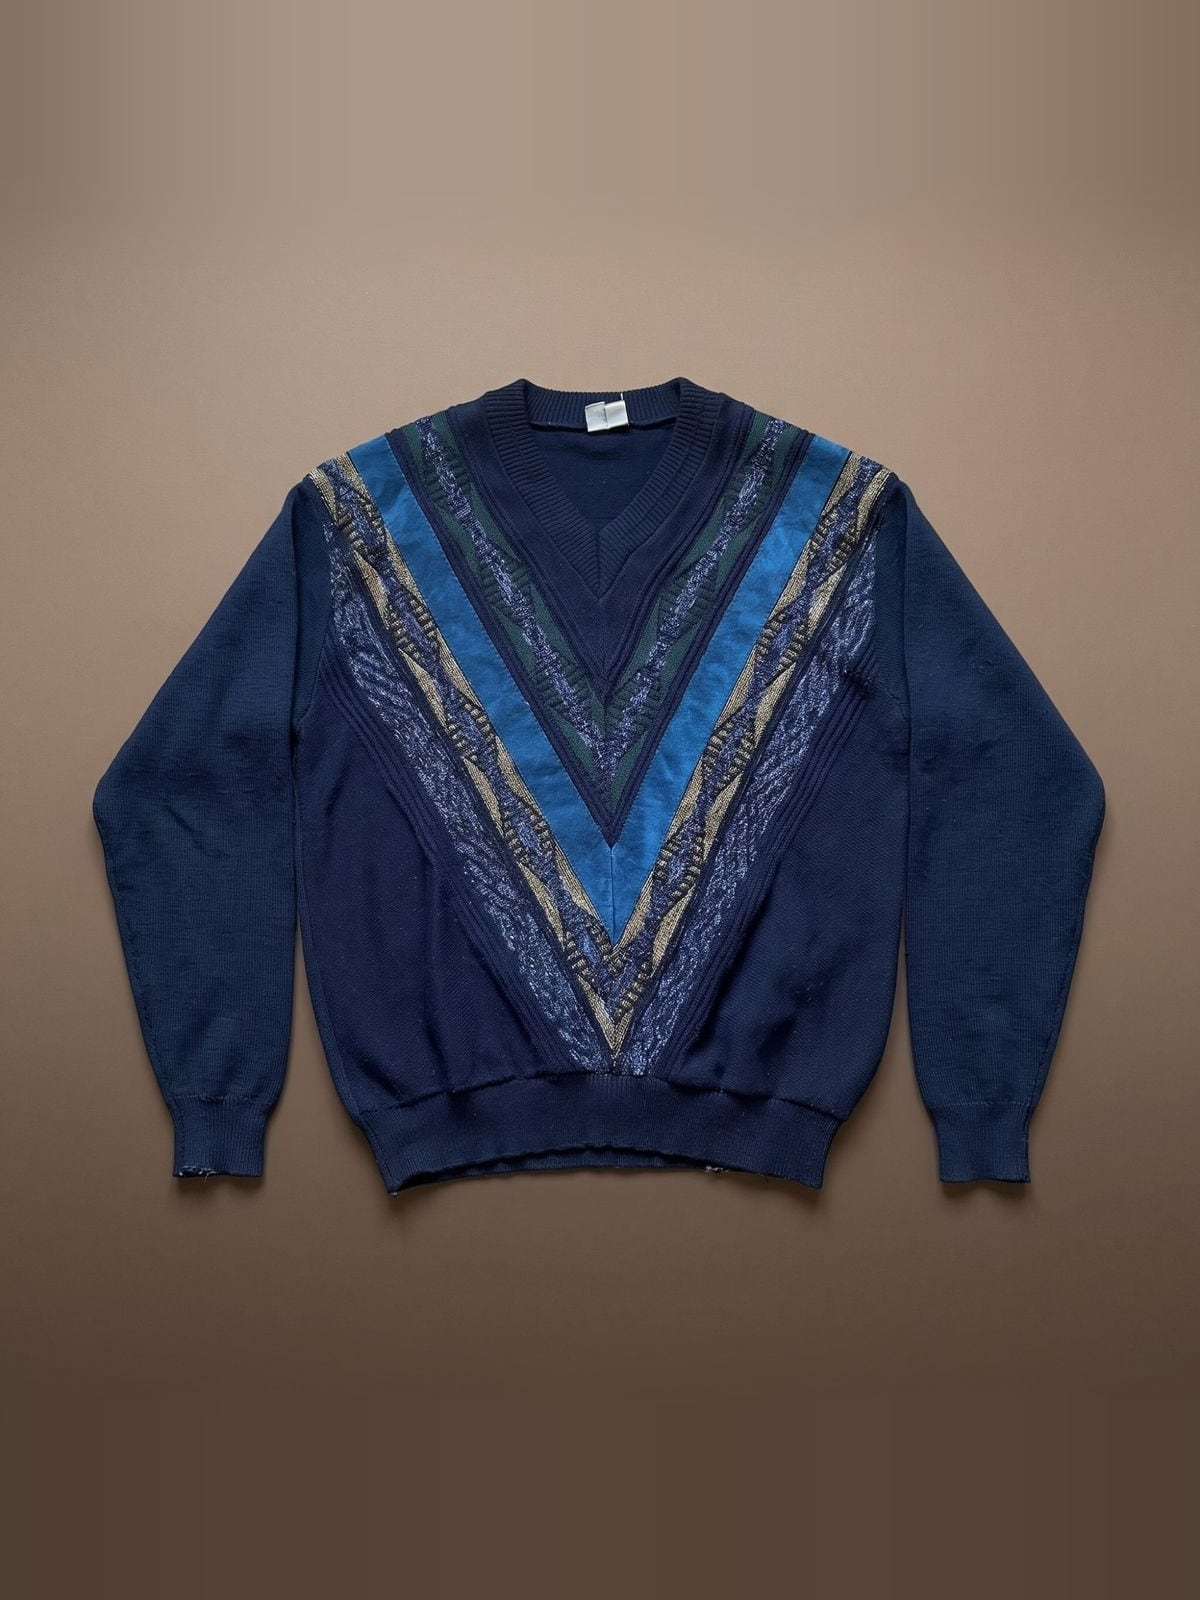
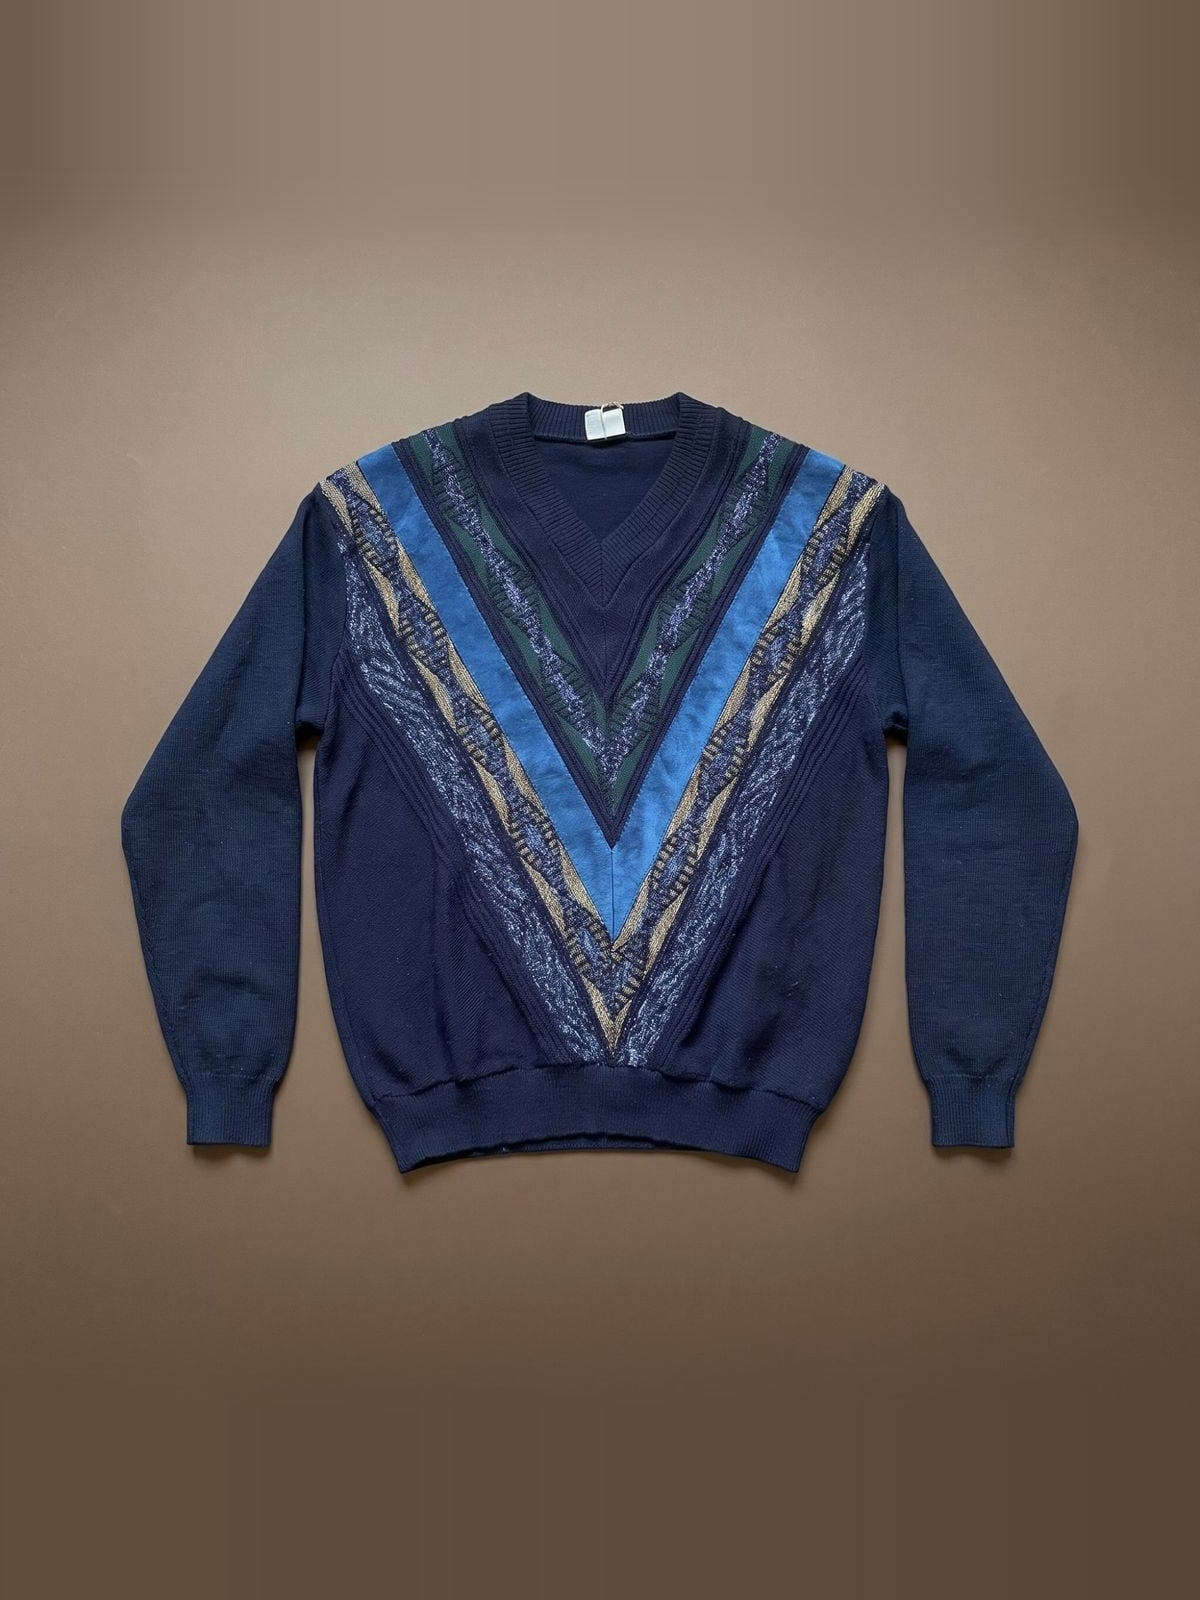
Джемпер: новый кадр, без потёртостей в описании
Владелица уточнила: потёртостей нет. Кадр заменён на обработанный, фон
теперь ближе к остальным вещам.

Changed region(s): [[0.0617, 0.2188, 0.925, 0.7812], [0.8942, 0.0, 1.0, 0.1875]]

diff --git a/data/items.ts b/data/items.ts
@@ -56,8 +56,9 @@ import crmItems from "./crm-items.json";
 const staticItems: Item[] = [
   /* ——— Джемпер, прислан 23.10.2026. Со слов владелицы — только «винтаж,
      3000»; страна неизвестна (стоит «Другие»), состав, размер и
-     состояние не названы. Потёртости описаны по кадру. Снимок владелицы,
-     фон дотянут до 3:4. */
+     состояние не названы. Потёртостей нет — со слов владелицы (на первом
+     кадре у левой манжеты были видны нитки, второй кадр — после обработки).
+     Фон дотянут до 3:4. */
   {
     slug: "dzhemper-v-vyrez-temno-siniy",
     title: "Джемпер с V-образным вырезом, тёмно-синий",
@@ -65,7 +66,7 @@ const staticItems: Item[] = [
     kind: "knitwear",
     price: 3000,
     story:
-      "Тёмно-синяя вязка, на груди — клин из гладкой голубой вставки, рельефных полос с блестящей нитью, золотистой и зелёной отделки. По краю левой манжеты и нижней резинки — потёртости и распустившиеся нити.",
+      "Тёмно-синяя вязка, на груди — клин из гладкой голубой вставки, рельефных полос с блестящей нитью, золотистой и зелёной отделки.",
     addedAt: "2026-10-23",
     photos: ["/items/dzhemper-v-vyrez-temno-siniy/1.jpg"],
   },
